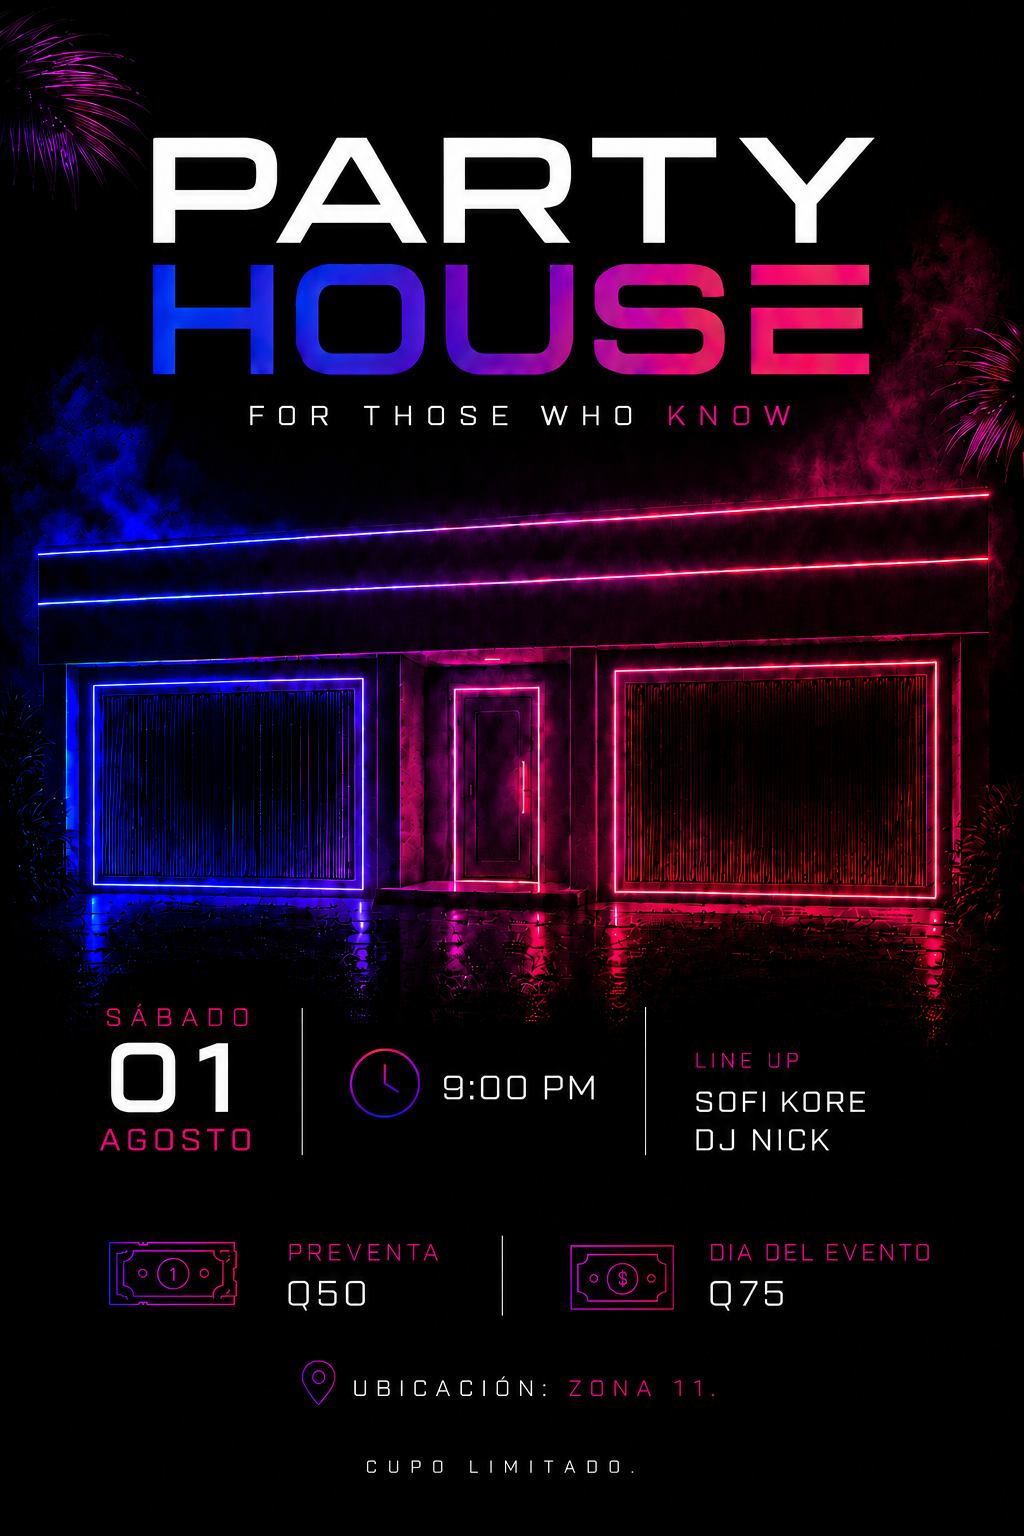
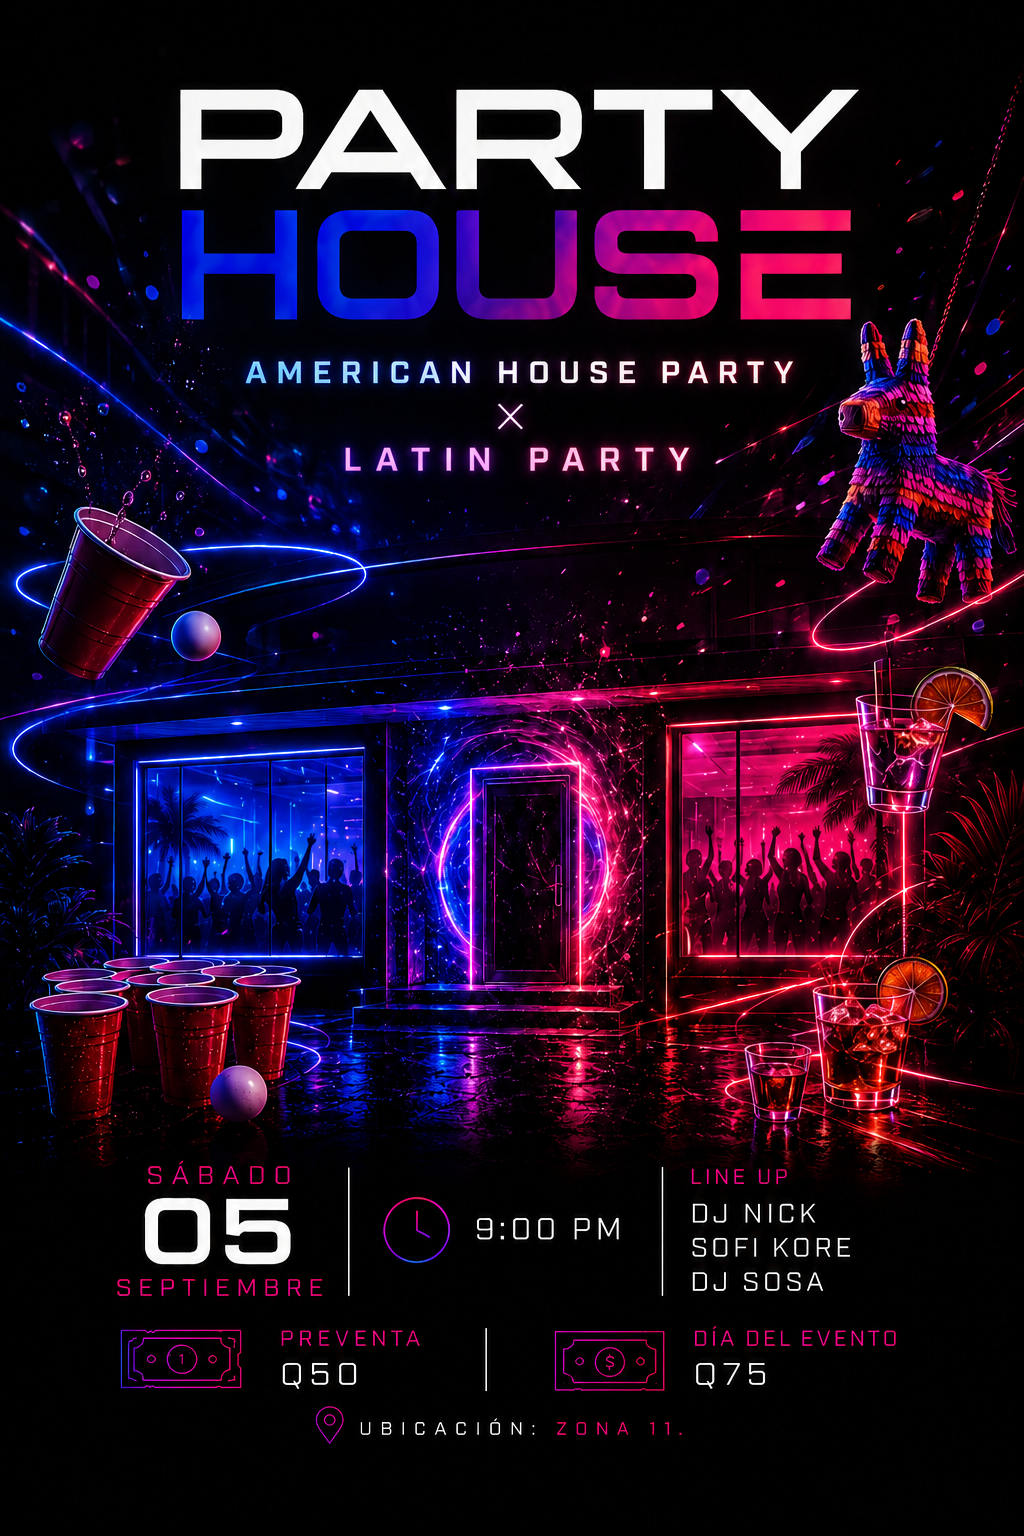
feat: nuevo evento PH586 - Party House 5 sep, actualiza flyer y posición de botón

diff --git a/landing/index.html b/landing/index.html
@@ -37,23 +37,23 @@
     .cta-wrap {
       position: fixed;
       z-index: 20;
-      top: 67%;
-      left: 25%;
+      top: 65%;
+      left: 22%;
       transform: translateX(-50%);
-      width: 44%;
-      max-width: 460px;
+      width: 61.3%;
+      max-width: 640px;
     }
 
     .cta-btn {
       display: block;
       width: 100%;
-      padding: 20px 26px;
+      padding: 20px 25px;
       background: linear-gradient(90deg, #1D4FFF 0%, #5D2D91 50%, #FF2E9A 100%);
       border: none;
       border-radius: 6px;
       color: #fff;
       font-family: 'Bebas Neue', sans-serif;
-      font-size: clamp(20px, 2.4vw, 29px);
+      font-size: clamp(14px, 1.7vw, 20px);
       letter-spacing: .13em;
       text-transform: uppercase;
       text-align: center;
@@ -83,24 +83,24 @@
         top: auto;
         left: auto;
         transform: none;
-        width: calc(100% - 32px);
+        width: 85%;
         max-width: none;
-        margin: 16px auto 32px;
+        margin: -20px 0 32px 8%;
       }
 
       .cta-btn {
-        font-size: 20px;
-        padding: 18px;
+        font-size: 14px;
+        padding: 13px;
       }
     }
   </style>
 </head>
 <body>
 
-  <img class="flyer" src="/img/landing.png" alt="Party House"/>
+  <img class="flyer" src="/img/horizontal.png" alt="Party House"/>
 
   <div class="cta-wrap">
-    <a href="/evento.html?c=PH0108" class="cta-btn">CONSEGUIR MI ENTRADA &rarr;</a>
+    <a href="/evento.html?c=PH586" class="cta-btn">CONSEGUIR MI ENTRADA &rarr;</a>
   </div>
 
 </body>
